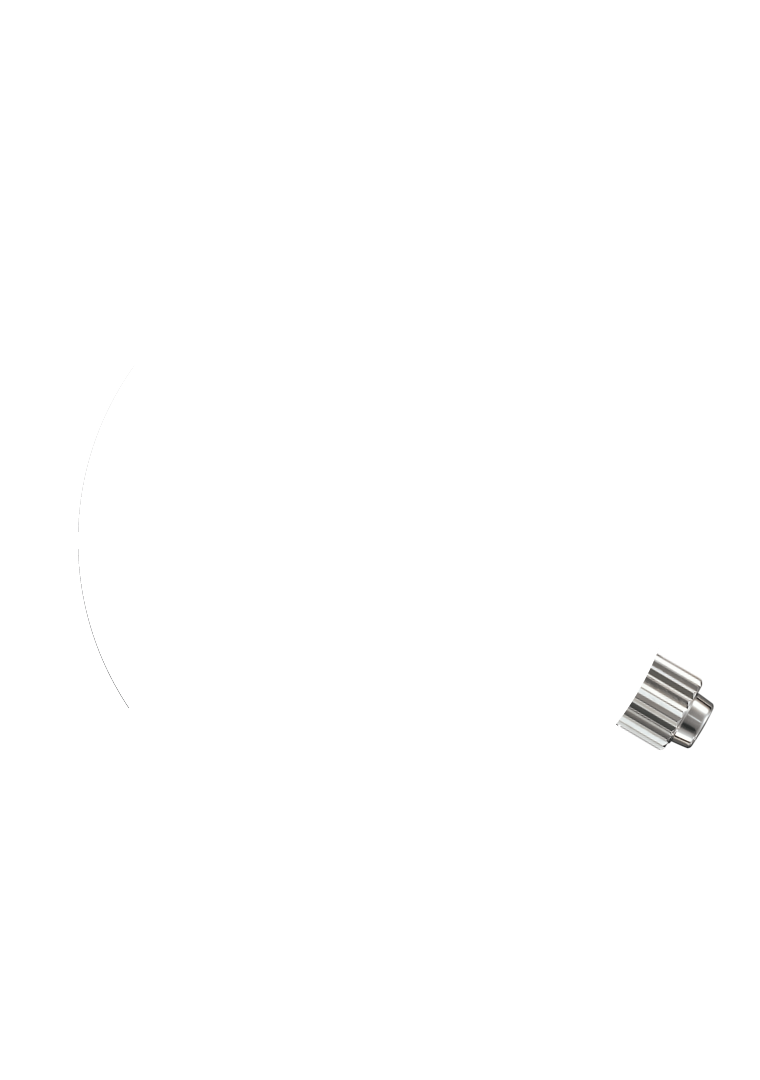
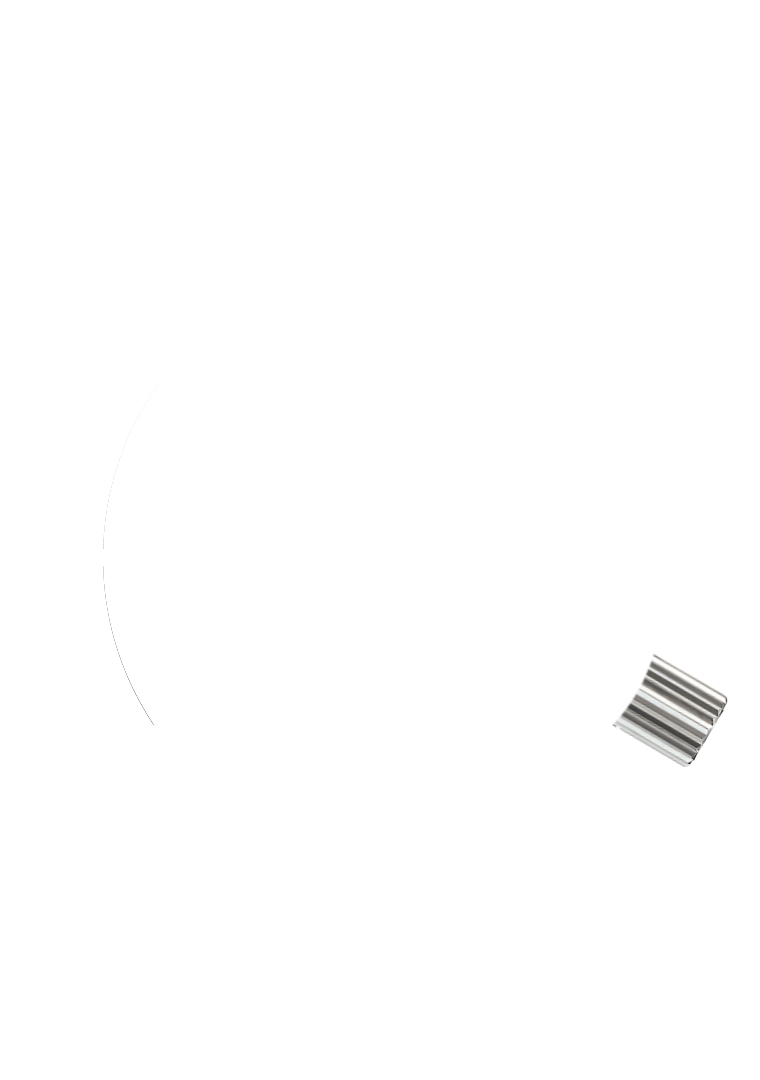
Corrected graphics for Sinn pushers

Changed region(s): [[0.8171, 0.6111, 0.9684, 0.7333]]

diff --git a/js/draw.js b/js/draw.js
@@ -63,12 +63,12 @@ function watchSelect() {
 	//Spawn the components required to make the selected watch
 	if (watch == "sinn103") {
 		watchcontainer(watch);
-		chronoPusherStart(watch, 0, 0, 50, 85); //Offset percentage: top, right, bottom, left
-		chronoPusherReset(watch, 45, 0, 0, 85); //Offset percentage: top, right, bottom, left
 		date(watch);
 		day(watch);
 		face(watch);
 		faceLume(watch);
+		chronoPusherStart(watch, 0, 0, 50, 85); //Offset percentage: top, right, bottom, left
+		chronoPusherReset(watch, 45, 0, 0, 85); //Offset percentage: top, right, bottom, left
 		second(watch, 0, 34, 0, 0); //Offset percentage: top, right, bottom, left
 		chronoMinute(watch, 0, 0, 32.5, 0);//Offset percentage: top, right, bottom, left
 		chronoHour(watch, 0, 0, -32.5, 0);//Offset percentage: top, right, bottom, left
@@ -78,7 +78,7 @@ function watchSelect() {
 		minuteLume(watch);
 		chronoSecond(watch);
 		chronoSecondLume(watch);
-		bezel(watch, 1, 120, 80);//Bidirectional, Clicks per rotation, Interaction zone scale(%)
+		bezel(watch, 1, 60, 80);//Bidirectional, Clicks per rotation, Interaction zone scale(%)
 		bezelLume(watch);
 		analogueTime(125, 22, 3);//Beat rate, hour date starts changing, hour day ends changing
 		//3Hz = 21600vph:  1000ms (1 sec) / 6 (degrees each tick (21600/60)/60=6) = analogueTime(166.66667)
